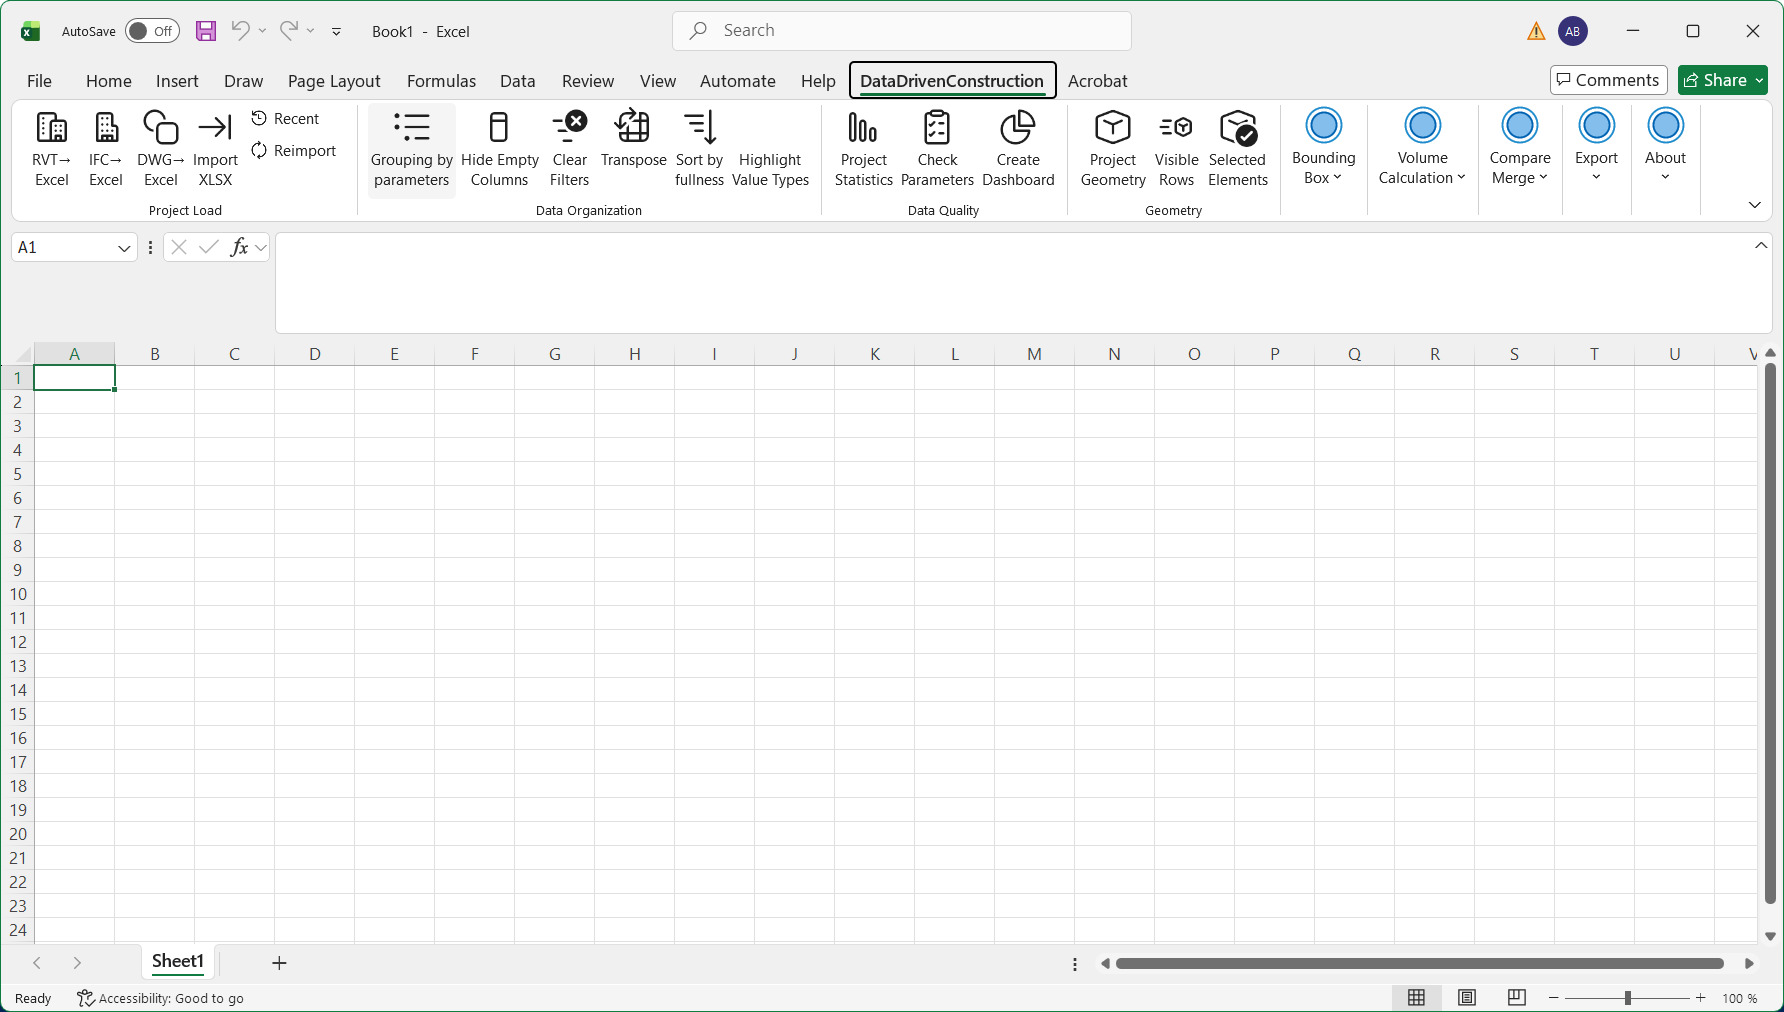
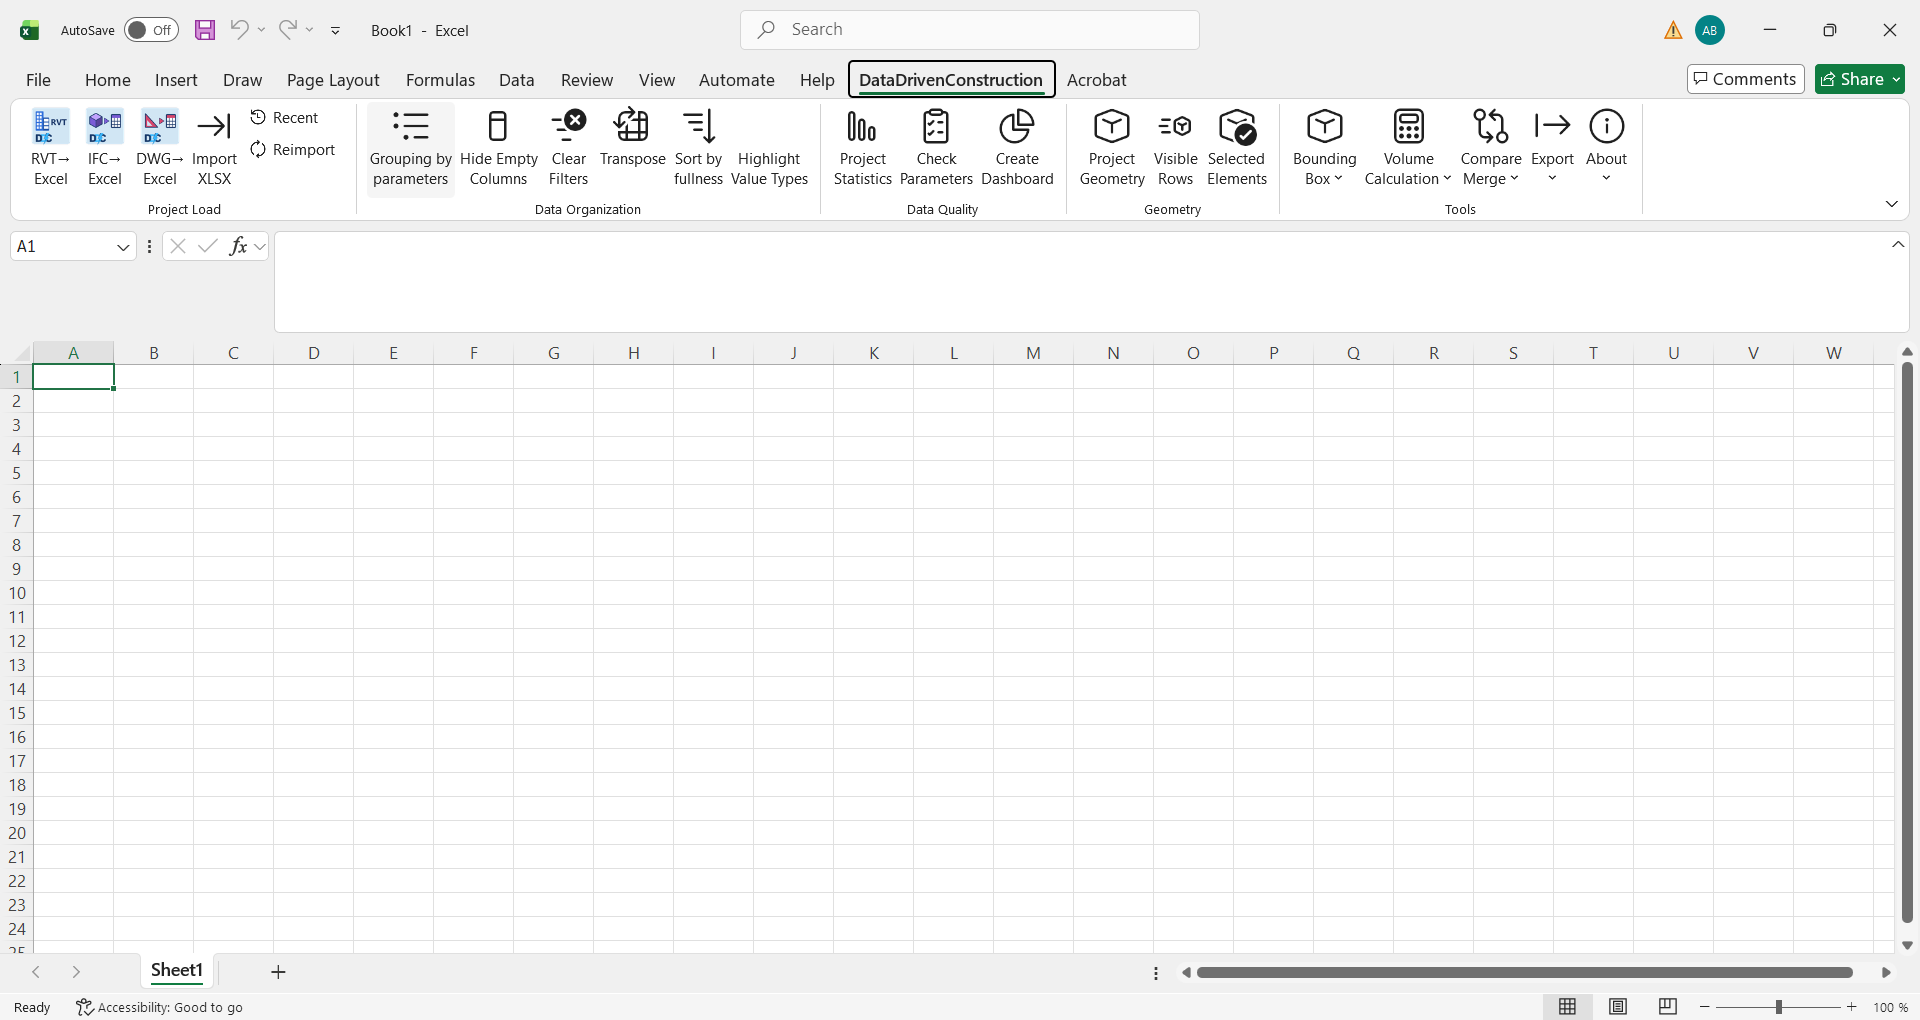
DDC Excel add-in: final package hash, ribbon and 3D view screenshots (#23)
README hash and screenshots for the replaced package.

diff --git a/DDC_WINDOWS_Converters/DDC_Excel_Addin/README.md b/DDC_WINDOWS_Converters/DDC_Excel_Addin/README.md
@@ -5,7 +5,7 @@ Excel as a table with one row per element and works on that table: statistics, p
 QTO, version comparison, JSON / XML / CSV export, 3D view of the RVT geometry.
 
 Download: [DDC-Excel-AddIn-2026.10.0-unsigned.zip](https://github.com/datadrivenconstruction/cad2data-Revit-IFC-DWG/releases/download/v2026.10.0/DDC-Excel-AddIn-2026.10.0-unsigned.zip)
[2 lines of base64/hex data omitted]
 This folder holds the documentation only; the package is a release asset.
 
 ![DDC tab in Excel](./images/ribbon.png)
@@ -36,6 +36,10 @@ beside the model. Set the registry value `HKCU\Software\DataDrivenConstruction\E
 write `native_graph.ifc` (IFC4, experimental) for Revit files.
 
 ![RVT table](./images/rvt-table.png)
+
+The 3D view of the RVT geometry (GLB) opens from **Project Geometry**:
+
+![3D viewer](./images/viewer-3d.png)
 
 ## What the table contains
 
